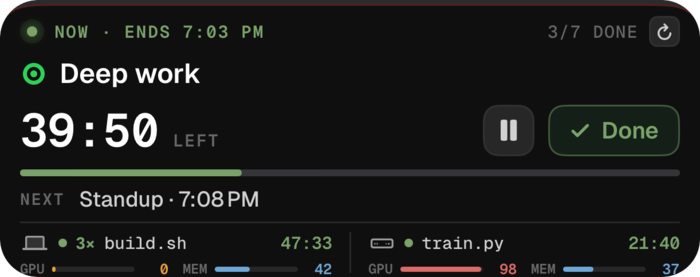
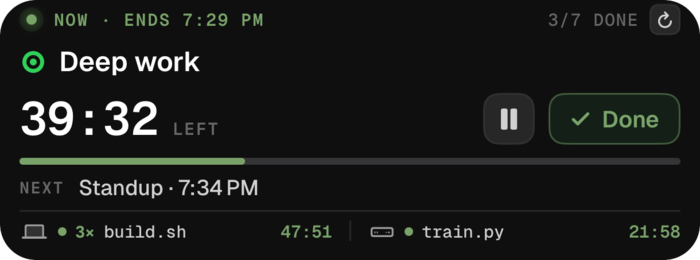
v81: nothing cut off on the Live Activity (alert in the header line, 2 jobs per Mac, 1 in the Island, one-line Mac row); alert notifications show a battery/power picture; README image redone

diff --git a/Shared/LiveActivityViews.swift b/Shared/LiveActivityViews.swift
@@ -284,11 +284,15 @@ struct LockScreenCard: View {
         return VStack(alignment: .leading, spacing: hasMacs ? 5 : 6) {
             // header: status · when ······ score
             HStack(spacing: 6) {
-                JTStatusDot(status: st, size: 6, animated: false)
-                Text(jtHeader.uppercased())
-                    .font(.mono(10, .semibold)).kerning(0.8)
-                    .foregroundStyle(st == .idle ? HDTone.dim : st.color)
-                    .lineLimit(1)
+                if let a = macs.alertShort() {
+                    MacAlertLabel(text: a)
+                } else {
+                    JTStatusDot(status: st, size: 6, animated: false)
+                    Text(jtHeader.uppercased())
+                        .font(.mono(10, .semibold)).kerning(0.8)
+                        .foregroundStyle(st == .idle ? HDTone.dim : st.color)
+                        .lineLimit(1)
+                }
                 Spacer(minLength: 6)
                 if let d = state.doneCount, let t = state.totalCount, t > 0 {
                     Text("\(d)/\(t) DONE").font(.mono(10, .medium)).kerning(0.6).foregroundStyle(HDTone.faintDark)
@@ -321,7 +325,7 @@ struct LockScreenCard: View {
             }
             if hasMacs {
                 Rectangle().fill(HDTone.hover).frame(height: 1)
-                MacRow(macs: macs)
+                MacRow(macs: macs, meters: false)   // v81: one line per Mac; the GPU/MEM meters ran past 160 pt
             }
         }
         .padding(.horizontal, inIsland ? 4 : 16)
@@ -1186,10 +1190,9 @@ struct ActivityFamilyCard: View {
     var isStale: Bool = false
 
     var body: some View {
-        // v75: a Mac needs you (battery < 20 %, or the mini lost power) → a red line on top, only while it lasts
-        if family != .small, let a = (state.macs ?? []).alert() {
-            VStack(spacing: 0) { MacAlertRow(text: a); card }
-        } else { card }
+        // v81: the Mac alert now replaces the card's header line (MacAlertLabel). A row stacked on top
+        // pushed the card past iOS's 160 pt cap and both ends got cut off.
+        card
     }
 
     @ViewBuilder private var card: some View {
@@ -1210,19 +1213,17 @@ struct ActivityFamilyCard: View {
     }
 }
 
-/// v75: one red line for a Mac alert. Tapping the card opens JobTrail (its widgetURL).
-struct MacAlertRow: View {
+/// v81: a Mac alert in the card's header line (in place of the status), red, one line.
+struct MacAlertLabel: View {
     let text: String
+    var size: CGFloat = 10
     var body: some View {
-        HStack(spacing: 6) {
-            Image(systemName: text.contains("battery") ? "battery.25" : "bolt.slash.fill").font(.system(size: 10, weight: .bold))
-            Text(text.uppercased()).font(.mono(9.5, .semibold)).kerning(0.5).lineLimit(1).minimumScaleFactor(0.7)
-            Spacer(minLength: 0)
+        HStack(spacing: 5) {
+            Image(systemName: text.contains("%") ? "battery.25" : "bolt.slash.fill").font(.system(size: size - 1, weight: .bold))
+            Text(text.uppercased()).font(.mono(size, .semibold)).kerning(0.6).lineLimit(1).minimumScaleFactor(0.75)
         }
         .foregroundStyle(HDTone.danger)
-        .padding(.horizontal, 16).padding(.vertical, 5)
-        .frame(maxWidth: .infinity)
-        .background(HDTone.danger.opacity(0.14))
+        .layoutPriority(1)
     }
 }
 
@@ -1620,11 +1621,12 @@ struct MacChip: View {
 /// v62: the Macs as one quiet JobTrail row (no boxes): glyph · status · count · job · live clock, split by a hairline.
 struct MacRow: View {
     let macs: [MacLive]
+    var meters = true
     var body: some View {
         HStack(alignment: .top, spacing: 10) {
             ForEach(Array(macs.prefix(2).enumerated()), id: \.offset) { i, m in
-                if i > 0 { Rectangle().fill(HDTone.hover).frame(width: 1, height: 24) }
-                MacRowItem(mac: m)
+                if i > 0 { Rectangle().fill(HDTone.hover).frame(width: 1, height: meters ? 24 : 12) }
+                MacRowItem(mac: m, meters: meters)
             }
         }
     }
@@ -1634,6 +1636,7 @@ struct MacRow: View {
 /// Line 2: GPU and memory as hairline meters with their numbers (JobTrail's machine meters).
 struct MacRowItem: View {
     let mac: MacLive
+    var meters = true
     private var status: HDStatus {
         switch mac.statusRaw { case "running": .running; case "waiting": .waiting; case "failed": .failed; default: .idle }
     }
@@ -1669,7 +1672,7 @@ struct MacRowItem: View {
                     Spacer(minLength: 0)
                 }
             }
-            if mac.online {
+            if mac.online && meters {
                 HStack(spacing: 8) {
                     meter("GPU", mac.gpu, HDTone.amber)
                     meter("MEM", mac.mem, HDTone.blue)
@@ -1739,9 +1742,13 @@ struct JobTrailBoard: View {
         let run = macs.reduce(0) { $0 + $1.running }, wait = macs.reduce(0) { $0 + $1.waiting }
         VStack(alignment: .leading, spacing: 7) {
             HStack(spacing: 6) {
-                Image(systemName: "checkmark").font(.system(size: 9, weight: .heavy)).foregroundStyle(HDTone.green)
-                Text(headline.uppercased() + (state.totalCount.map { t in " · \(state.doneCount ?? 0)/\(t)" } ?? ""))
-                    .font(.mono(9.5, .semibold)).kerning(0.8).foregroundStyle(HDTone.green).lineLimit(1)
+                if let a = (state.macs ?? []).alertShort() {
+                    MacAlertLabel(text: a, size: 9.5)
+                } else {
+                    Image(systemName: "checkmark").font(.system(size: 9, weight: .heavy)).foregroundStyle(HDTone.green)
+                    Text(headline.uppercased() + (state.totalCount.map { t in " · \(state.doneCount ?? 0)/\(t)" } ?? ""))
+                        .font(.mono(9.5, .semibold)).kerning(0.8).foregroundStyle(HDTone.green).lineLimit(1)
+                }
                 Spacer(minLength: 6)
                 Text(run > 0 ? "\(run) RUN" + (wait > 0 ? " · \(wait) WAIT" : "") : "IDLE")
                     .font(.mono(9.5, .semibold)).kerning(0.6)
@@ -1751,7 +1758,7 @@ struct JobTrailBoard: View {
             HStack(alignment: .top, spacing: 12) {
                 ForEach(Array(macs.enumerated()), id: \.offset) { i, m in
                     if i > 0 { Rectangle().fill(HDTone.hover).frame(width: 1) }
-                    BoardColumn(mac: m, maxJobs: island ? 2 : 3)
+                    BoardColumn(mac: m, maxJobs: island ? 1 : 2)   // v81: more rows never fit (160 pt card, ~124 pt island)
                 }
             }
         }

diff --git a/App/JobTrail/MacAlerts.swift b/App/JobTrail/MacAlerts.swift
@@ -1,5 +1,6 @@
 import Foundation
 import UserNotifications
+import UIKit
 
 /// v75: a notification when a Mac needs you — MacBook battery under 20 % and not charging, or the Mac mini gone for
 /// 3+ minutes (power or network loss). Off until you turn it on (Settings › Live Activity › Mac alerts).
@@ -32,7 +33,35 @@ enum MacAlerts {
         c.body = parts.dropFirst().joined(separator: " · ")
         c.sound = .default
         c.interruptionLevel = .active
+        c.threadIdentifier = "macalerts"
+        // v81: a picture of the problem (red battery / no power) next to the text, not just the app icon.
+        if let a = picture(battery: text.contains("battery"), id: id) { c.attachments = [a] }
         UNUserNotificationCenter.current().add(UNNotificationRequest(identifier: id, content: c, trigger: nil))
+    }
+
+    /// A 300 px dark tile with the SF Symbol for the problem, written to tmp and attached (iOS copies it).
+    private static func picture(battery: Bool, id: String) -> UNNotificationAttachment? {
+        let size = CGSize(width: 300, height: 300)
+        let red = UIColor(red: 1, green: 0.27, blue: 0.23, alpha: 1)
+        let img = UIGraphicsImageRenderer(size: size).image { ctx in
+            UIColor(white: 0.07, alpha: 1).setFill()
+            UIBezierPath(roundedRect: CGRect(origin: .zero, size: size), cornerRadius: 66).fill()
+            let cfg = UIImage.SymbolConfiguration(pointSize: 150, weight: .semibold)
+            let name = battery ? "battery.25percent" : "bolt.slash.fill"
+            guard let sym = UIImage(systemName: name, withConfiguration: cfg)?.withTintColor(red, renderingMode: .alwaysOriginal) else { return }
+            let r = AVMakeRect(sym.size, in: CGRect(origin: .zero, size: size).insetBy(dx: 50, dy: 50))
+            sym.draw(in: r)
+        }
+        guard let data = img.pngData() else { return nil }
+        let url = FileManager.default.temporaryDirectory.appendingPathComponent("\(id)-\(UUID().uuidString).png")
+        guard (try? data.write(to: url)) != nil else { return nil }
+        return try? UNNotificationAttachment(identifier: "pic", url: url, options: nil)
+    }
+
+    private static func AVMakeRect(_ s: CGSize, in r: CGRect) -> CGRect {
+        let k = min(r.width / s.width, r.height / s.height)
+        let w = s.width * k, h = s.height * k
+        return CGRect(x: r.midX - w / 2, y: r.midY - h / 2, width: w, height: h)
     }
 
     static func requestPermission() async -> Bool {

diff --git a/App/JobTrail/LAPreview.swift b/App/JobTrail/LAPreview.swift
@@ -35,8 +35,20 @@ struct LAPreviewScreen: View {
     var body: some View {
         ScrollView {
             VStack(spacing: 14) {
-                // v75: alert row (MacBook at 14 %, not charging) on the real Lock Screen wrapper
+                // v81: alerts in the header line, on the real Lock Screen wrapper: MacBook 14 % (board), mini offline (board), MacBook 14 % (block card)
                 ActivityFamilyCard(state: { var d = Self.doneState; d.macs?[0].battery = 14; return d }())
+                    .frame(maxWidth: .infinity, maxHeight: 160, alignment: .top)
+                    .frame(height: 160, alignment: .top)
+                    .background(Color(UIColor(hd: 0x0C0C0C)).opacity(0.9))
+                    .clipShape(RoundedRectangle(cornerRadius: 24, style: .continuous))
+                    .overlay(RoundedRectangle(cornerRadius: 24, style: .continuous).strokeBorder(.red.opacity(0.3)))
+                ActivityFamilyCard(state: { var d = Self.doneState; d.macs?[1].online = false; d.macs?[1].downSince = .now.addingTimeInterval(-600); return d }())
+                    .frame(maxWidth: .infinity, maxHeight: 160, alignment: .top)
+                    .frame(height: 160, alignment: .top)
+                    .background(Color(UIColor(hd: 0x0C0C0C)).opacity(0.9))
+                    .clipShape(RoundedRectangle(cornerRadius: 24, style: .continuous))
+                    .overlay(RoundedRectangle(cornerRadius: 24, style: .continuous).strokeBorder(.red.opacity(0.3)))
+                ActivityFamilyCard(state: { var d = LiveActivityManager.previewStates(now: .now)[0].0; d.macs = Self.macs; d.macs?[0].battery = 14; d.macs?[0].charging = false; return d }())
                     .frame(maxWidth: .infinity, maxHeight: 160, alignment: .top)
                     .frame(height: 160, alignment: .top)
                     .background(Color(UIColor(hd: 0x0C0C0C)).opacity(0.9))

diff --git a/Shared/DayActivityAttributes.swift b/Shared/DayActivityAttributes.swift
@@ -63,11 +63,19 @@ struct MacLive: Codable, Hashable {
         if !online, desktop, let d = downSince, now.timeIntervalSince(d) >= 180 { return "Mac mini lost power or network · \(Int(now.timeIntervalSince(d) / 60)) min" }
         return nil
     }
+
+    /// v81: short form for the card's header line (it shares the line with the run count and refresh).
+    func alertShort(now: Date = .now) -> String? {
+        if online, let b = battery, b < 20, charging != true { return "\(desktop ? "Mini" : "MacBook") \(b)% · plug in" }
+        if !online, desktop, let d = downSince, now.timeIntervalSince(d) >= 180 { return "Mini offline · \(Int(now.timeIntervalSince(d) / 60))m" }
+        return nil
+    }
 }
 
 extension Array where Element == MacLive {
     /// v75: the first alert across the Macs (for the warning row on the Live Activity).
     func alert(now: Date = .now) -> String? { lazy.compactMap { $0.alert(now: now) }.first }
+    func alertShort(now: Date = .now) -> String? { lazy.compactMap { $0.alertShort(now: now) }.first }
 }
 
 struct DayActivityAttributes: ActivityAttributes {

diff --git a/README.md b/README.md
@@ -37,8 +37,8 @@ The Hyperday card sits on your Lock Screen and in the Dynamic Island all day.
 - **Top:** what you're doing now, when it ends, and how many blocks are done.
 - **Middle:** a big countdown, with **Pause** and **Done** buttons you can tap without unlocking.
 - **Bar:** fills in as the block goes on; **Next** shows what's coming.
-- **Bottom:** your Macs at a glance (running jobs, GPU and memory) when JobTrail is connected.
-- **Alerts:** a red line appears only while something needs you, like a Mac below 20 % battery or a Mac that lost power.
+- **Bottom:** what each Mac is running, when JobTrail is connected.
+- **Alerts:** the top line turns red only while something needs you, like a Mac below 20 % battery or a Mac that lost power.
 
 When your day is done, the card turns into a board of your Macs. Tap it to open the JobTrail tab.
 

diff --git a/CHANGELOG.md b/CHANGELOG.md
@@ -2,6 +2,13 @@
 
 ## Unreleased
 
+### v81: nothing cut off on the Live Activity
+- Mac alerts replace the card's header line (short red text) instead of adding a row that pushed the card past iOS's 160 pt cap.
+- JobTrail board: 2 jobs per Mac on the Lock Screen, 1 in the Dynamic Island (more never fit).
+- Block card: one line per Mac (the GPU/MEM meters ran off the bottom).
+- Mac alert notifications carry a picture of the problem (red battery / no-power bolt).
+- Every state checked at the real cap in the -hdLAPreview screen; README image redone.
+
 ### v80: README brought up to date
 - New icon and fresh screenshots from the current build (Live Activity, Today, Calendar, Stats, Settings, widgets), sample data only.
 - README covers the JobTrail tab, Car tab, Mac vitals and alerts, and the new widgets.
